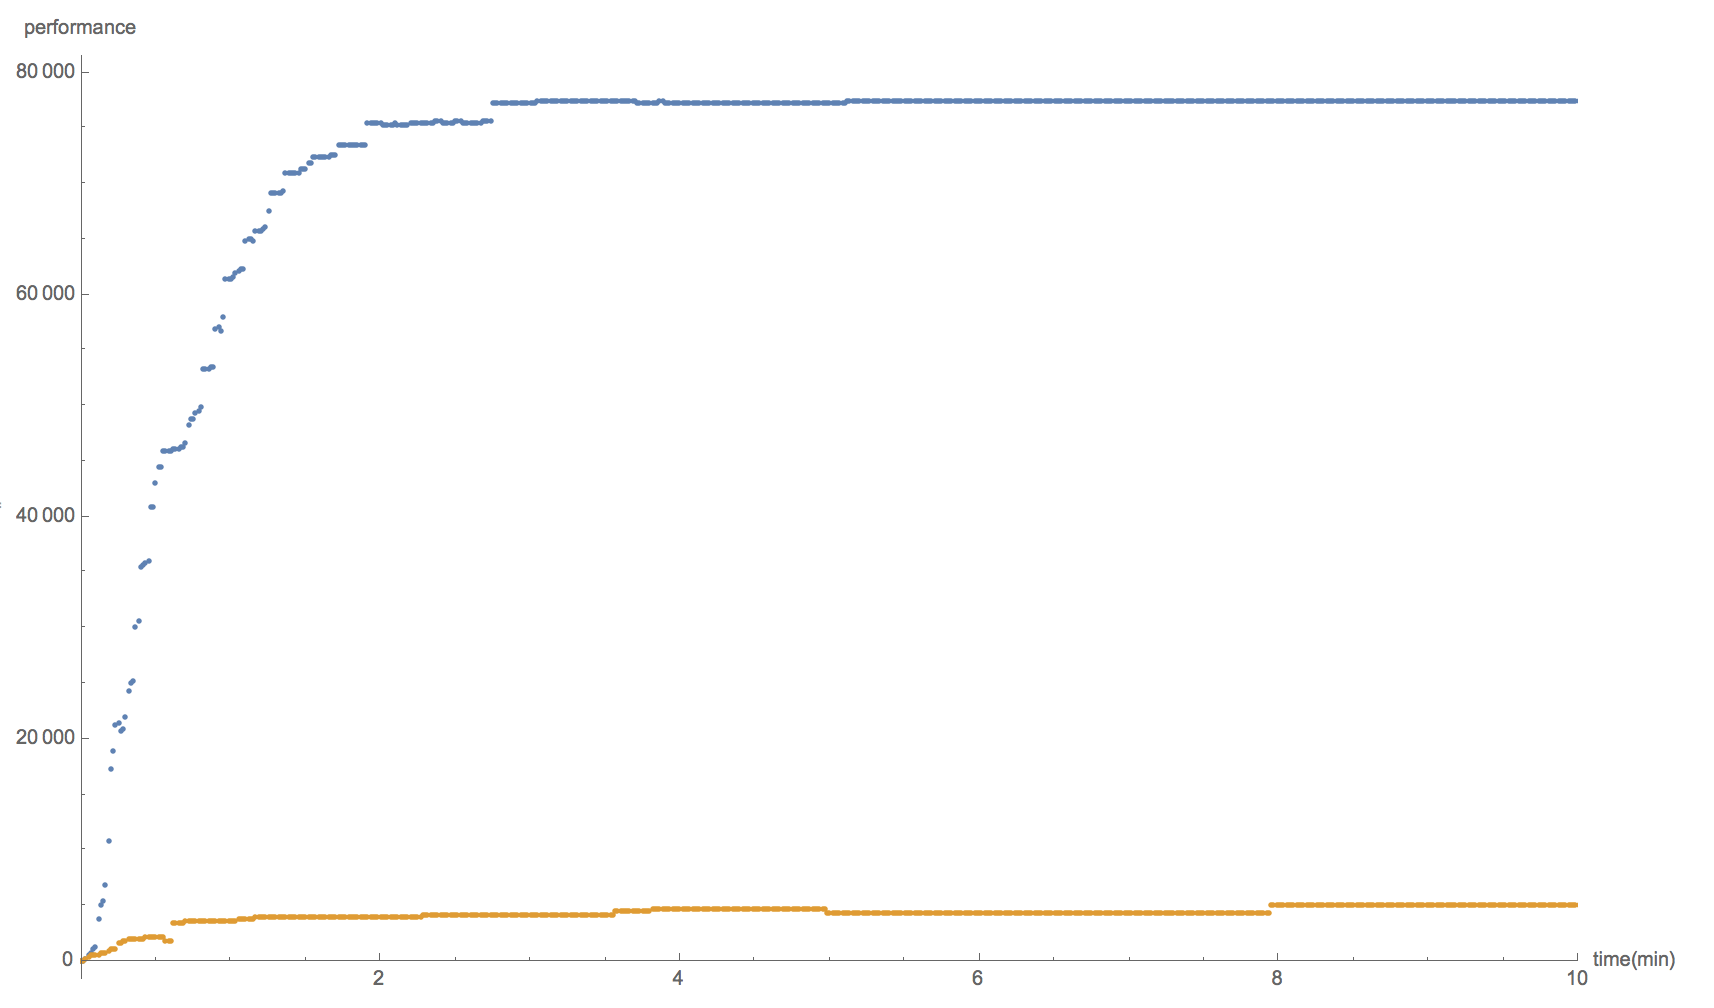
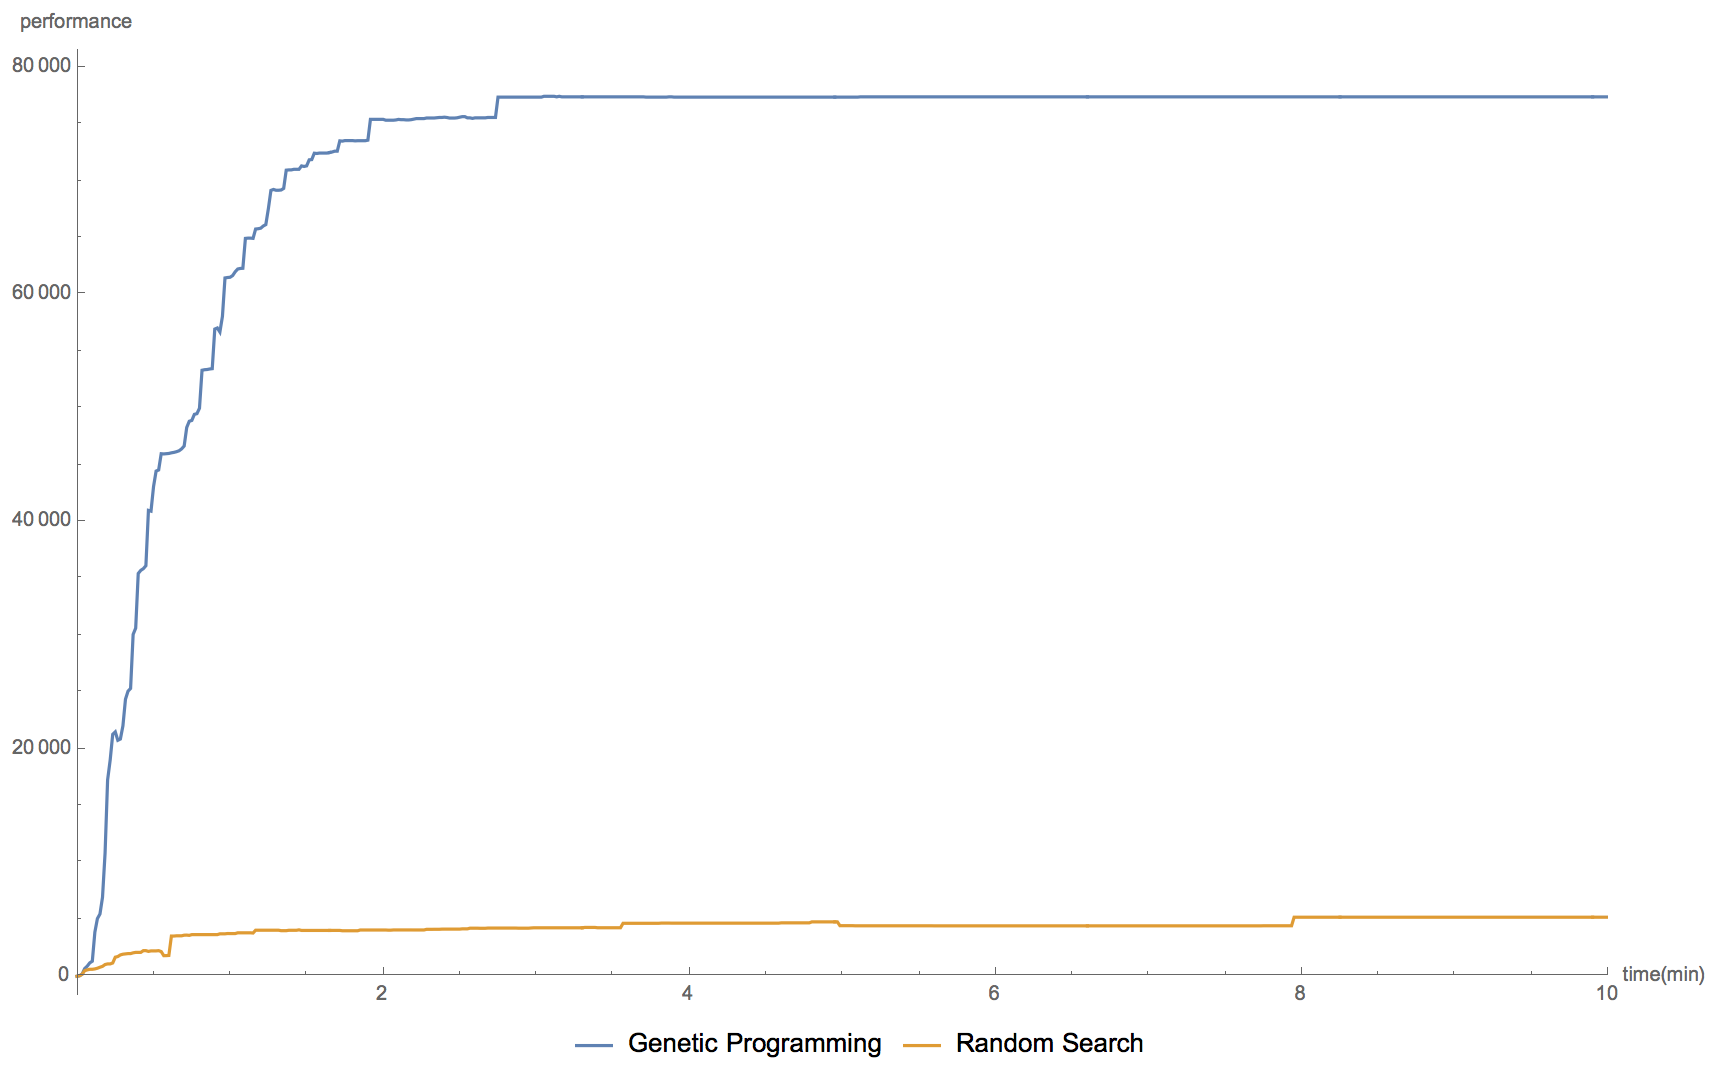
Upload Compare with random

diff --git a/Compare-with-random.md b/Compare-with-random.md
@@ -1,0 +1,24 @@
+## Compare Singularity with random search
+
+To implement a random search version of Singularity, we replaced Singularity's 4 genetic operators (crossover, mutation, copy, and constFold) with a new operator that randomly generate RCGs. We compared the performance of the original algorithm with this random version on the Guava ImmutableBiMap example. Results were aggregated over 30 runs with 1 hour time limit for each. To see the initial improvement more clearly, we also plot the performance within the first 10 minutes.
+
+* The 1 hour plot:
+
+<img width="800" src="images/Compare-with-random-60min.png">
+
+
+* The first 10 minutes:
+
+<img width="800" src="images/Compare-with-random-10min.png">
+
+We also plot the performance-time curve of the best run from GP and random search. As we can see from the results, GP steadily and significantly improve over time, while the random search.
+
+* GP best run:
+
+<img width="500" src="images/BestRun-GP.png">
+
+
+* Random Search best run:
+
+<img width="500" src="images/BestRun-random.png">
+

diff --git a/DSL-in-details.md b/DSL-in-details.md
@@ -38,7 +38,7 @@ output3 (graph): g
 
 The graphs generated by this RCG look like this:
 
-<img width='400' src="https://github.com/MrVPlusOne/Singularity-related/blob/master/images/Singularity_JGraphT.png?raw=true">
+<img width='400' src="images/Singularity_JGraphT.png">
 
 The RCG adds three new edges to the graph in each iteration. For example, suppose node 0~6 consist the current graph, in the next iteration, the updater first adds the outgoing edge 0->7 with edge weight 3; then, it adds the backward edge 7->0 with weight 4; finally, it creates the purple edge 0->8 with weight 0.
 
